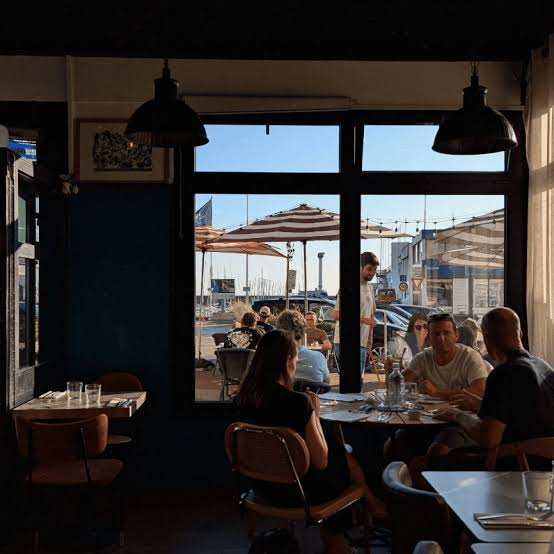
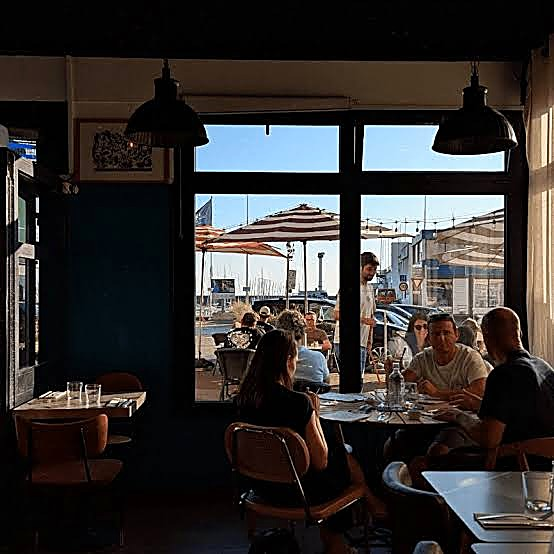
Sharpen existing photos and fix a bad gallery crop
Apply mild sharpening/contrast to the three real photos to improve
perceived quality at their display size. Also drop the gallery's
"wide" tile treatment, which was force-cropping the portrait bœuf
photo into a landscape frame and losing most of the plate; all four
gallery tiles now use a consistent, matching aspect ratio.

Claude-Session: https://claude.ai/code/session_01JAbvkrSGVUUSaJn1gZnxxD

diff --git a/index.html b/index.html
@@ -239,8 +239,6 @@
   .gallery-item:hover{transform:translateY(-3px)}
   .gallery-item img{width:100%;height:100%;object-fit:cover;transition:transform .35s ease}
   .gallery-item:hover img{transform:scale(1.05)}
-  .gallery-item.wide{aspect-ratio:8/5}
-  @media(min-width:640px){.gallery-item.wide{grid-column:span 2}}
   .gallery-item.quote{
     display:flex;align-items:center;justify-content:center;text-align:center;
     background:linear-gradient(150deg,var(--orange),var(--orange-deep));
@@ -510,14 +508,14 @@
       <span class="eyebrow">Galerie</span>
       <h2 style="font-size:clamp(1.7rem,4vw,2.4rem)">La terrasse, la salle, les assiettes</h2>
       <div class="gallery-grid" style="margin-top:30px">
-        <div class="gallery-item wide">
+        <div class="gallery-item">
           <img src="assets/img/hero-terrasse.jpg" alt="Terrasse de L'Escale face au port, parasols et voiliers" loading="lazy">
         </div>
         <div class="gallery-item">
           <img src="assets/img/interieur-soiree.jpg" alt="Ambiance en salle un soir d'été, clients attablés" loading="lazy">
         </div>
         <div class="gallery-item quote">« Les pieds sur le port, l'assiette pleine d'iode. »</div>
-        <div class="gallery-item wide">
+        <div class="gallery-item">
           <img src="assets/img/plat-boeuf-frites.jpg" alt="Filet de bœuf grillé et frites maison servis à table" loading="lazy">
         </div>
       </div>
